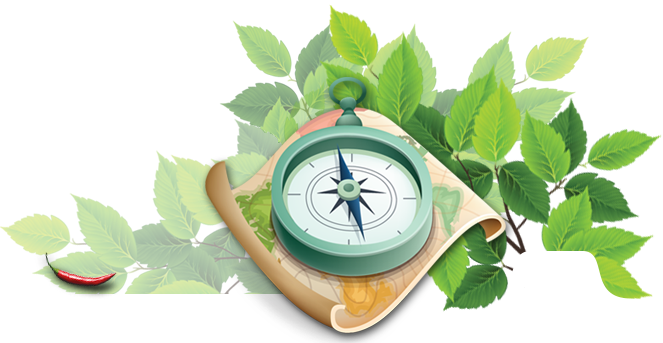
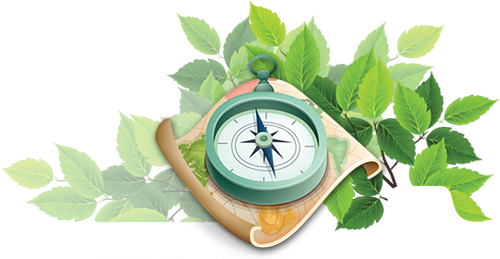
Atualizações

diff --git a/solaris/assets/css/style.css b/solaris/assets/css/style.css
@@ -39,17 +39,11 @@ section#index article figure img { max-width: 100%;}
 section#index article aside { width: 100%; margin-top: -3px; float: left;}
 div#index_residencial, div#index_resort { width: 50%; float: left; position: relative;}
 div#index_residencial figure img, div#index_resort figure img { max-width: 100%;}
-
 div#index_residencial span, div#index_resort span { width: 100%; height: 100%; display: none; float: left; cursor: pointer; z-index: 100; background: #000; opacity: 0.3; position: absolute; top: 0;}
-
-
 div#index_residencial h3 a, div#index_resort h3 a { position: absolute; text-decoration: none; margin-top: -28.5%; margin-left: 8%;}
-div#index_residencial h3 a, div#index_resort h3 a { font-size: 6.066em; text-transform: uppercase; color: #FFF; font-weight: 100; letter-spacing: 2px;}
-
-
+div#index_residencial h3 a, div#index_resort h3 a { font-size: 4.066em; text-transform: uppercase; color: #FFF; font-weight: 100; letter-spacing: 2px;}
 img.seta_residencial { height: 126px; margin-left: 50%; margin-top: -20%; float: right;}
 img.seta_resort { height: 126px; margin-left: 70%; margin-top: -22%; float: right;}
-
 div#rodape_index { width: 100%; padding-top: 10px; letter-spacing: 1px; float: left; text-align: center; font-size: 1.4em; position: relative; z-index: 200; height: 20px; background: #000; margin-top: -15px; color: #FFF}
 
 
@@ -63,7 +57,7 @@ section#localizacao article div { width: 100%; margin-top: 20px; height: 750px; 
 section#residencial article { margin-top: 40px;}
 article#galeria { width: 100%; min-width: 1345px; float: left; position: relative;}
 span#setaD, span#setaE { display: block; position: absolute; z-index: 100;}
-span#setaD a, span#setaE a { text-decoration: none; color: rgba(255,255,255, 0.8); padding: 187px 20px 125px 20px;}
+span#setaD a, span#setaE a { text-decoration: none; color: rgba(255,255,255, 0.2); padding: 187px 20px 125px 20px;}
 span#setaD a:hover, span#setaE a:hover { background: rgba(255,255,255, 0.2); color: rgba(255,255,255, 0.8); -webkit-transition: 0.7s; transition: 0.7s;}
 span#setaD { top: 88px; right: 0;}
 span#setaE { top: 88px; left: 0;} 
@@ -224,20 +218,13 @@ footer { border-bottom: solid 52px #000; position: relative; float: left;}
 footer article { height: 345px; position: relative;}
 footer article div { position: absolute; bottom: 15px; left: 25px;}
 footer article div figure { float: left;}
-
 footer article div figure img {width: 60%;}
-
 footer article div figure.chalet { margin-right: 30px;}
 footer article div figure.fernandez { margin-right: -20px;}
 footer article div figure.hope { margin-top: 15px;}
 footer article div figcaption { letter-spacing: 2px; margin-bottom: 10px;}
-
-
-
-
-
-article figure#spicy_footer a { position: absolute; right: 604px; bottom: -5px; z-index: 200;}
-article figure#imagem_rodape { position: absolute; right: 64px; bottom: -52px; z-index: 100;}
+article figure#spicy_footer a { bottom: -5px; position: absolute; right: 494px; z-index: 200;}
+article figure#imagem_rodape { position: absolute; right: 88px; bottom: -41px; z-index: 100;}
 article figure#detalhe_rodape a { position: absolute; right: 80px; bottom: -35px; z-index: 200;}
 
 

diff --git a/solaris/assets/js/site.js b/solaris/assets/js/site.js
@@ -65,13 +65,13 @@ $(function() {
 	var width = $(window).width();
 
 	if (width > 1345) {
-		var tamanhoFonte = width * 0.45 / 100;
+		var tamanhoFonte = width * 0.35 / 100;
 	}
 	$("h3 a").css("fontSize", tamanhoFonte + "em");
 	window.onresize = function(event) {
 		var width = $(window).width();
 		if (width > 1345) {
-			var tamanhoFonte = width * 0.45 / 100;
+			var tamanhoFonte = width * 0.35 / 100;
 			$("h3 a").css("fontSize", tamanhoFonte + "em");
 		}
 	}
